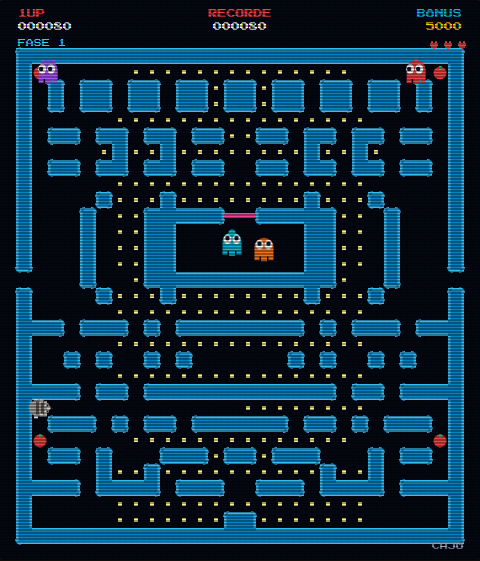
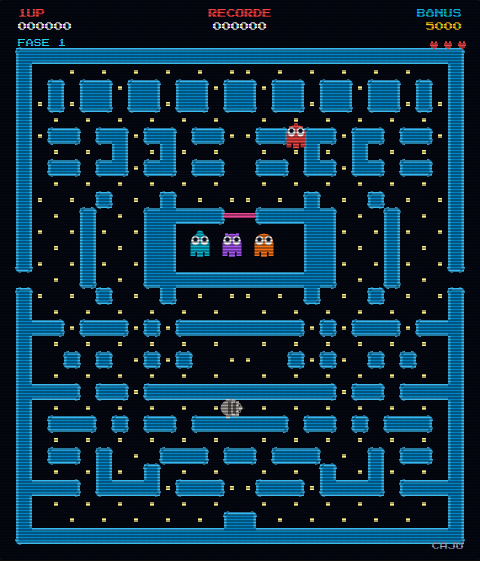
fix: distribui sementes em cadencia afastada espelhada no labirinto do Tatu

diff --git a/src/games/tatu/mapa.ts b/src/games/tatu/mapa.ts
@@ -19,9 +19,9 @@
  *
  * O labirinto é original e simétrico na horizontal: a metade da esquerda é
  * espelhada para gerar a metade da direita (a toca central e as fileiras 10-14
- * e 27 são definidas por linhas completas, também palíndromos). Ao final, um
- * aparador simétrico remove sementes nos corredores mais cheios até restar
- * cerca de 240 itens para coletar.
+ * e 27 são definidas por linhas completas, também palíndromos). As sementes
+ * são distribuídas em cadência alternada afastada (uma a cada dois tiles,
+ * espelhada), totalizando cerca de 228 itens para coletar.
  */
 
 export const TILE_SIZE = 16;
@@ -81,17 +81,6 @@ const FILEIRAS_ESPECIAIS: Record<number, number[]> = {
   27: linhaSimetrica([1, 1, 1, 1, 2, 1, 1, 1, 1], [2, 1, 1, 1, 2, 2, 1, 1, 1, 2]), // ponte
 };
 
-/** Total de sementes + pimentas ainda presentes na matriz. */
-function contarItens(grid: number[][]): number {
-  let total = 0;
-  for (const linha of grid) {
-    for (const tile of linha) {
-      if (tile === 2 || tile === 3) total++;
-    }
-  }
-  return total;
-}
-
 export function criarMatrizLabirinto(): number[][] {
   const matriz: number[][] = HALF_MAZE_TEMPLATE.map((half, r) => {
     const especial = FILEIRAS_ESPECIAIS[r];
@@ -103,21 +92,13 @@ export function criarMatrizLabirinto(): number[][] {
     return linha;
   });
 
-  // Apara sementes simetricamente nos corredores mais cheios até restarem ~240 itens
-  const linhasPorDensidade = matriz
-    .map((linha, r) => ({ r, sementes: linha.filter((t) => t === 2).length }))
-    .sort((a, b) => b.sementes - a.sementes);
-
-  while (contarItens(matriz) > 240) {
-    for (const { r } of linhasPorDensidade) {
-      if (contarItens(matriz) <= 240) break;
-      for (let c = 0; c < 14; c++) {
-        if (matriz[r][c] === 2 && matriz[r][MAZE_COLS - 1 - c] === 2) {
-          matriz[r][c] = 0;
-          matriz[r][MAZE_COLS - 1 - c] = 0;
-          break;
-        }
-      }
+  // Distribui as sementes em cadência afastada e espelhada: uma a cada dois
+  // tiles, usando min(c, 27-c) como fase (o labirinto permanece simétrico).
+  // Nenhuma semente fica encostada na outra e os corredores ficam igualmente
+  // pontuados (~228 itens), sem aglomerados.
+  for (let r = 0; r < MAZE_ROWS; r++) {
+    for (let c = 0; c < MAZE_COLS; c++) {
+      if (matriz[r][c] === 2 && Math.min(c, MAZE_COLS - 1 - c) % 2 !== r % 2) matriz[r][c] = 0;
     }
   }
 
